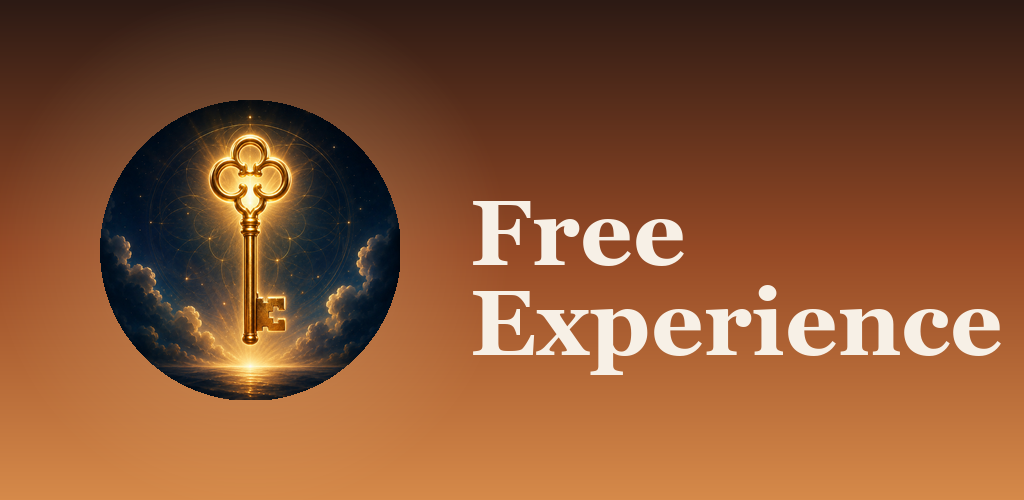
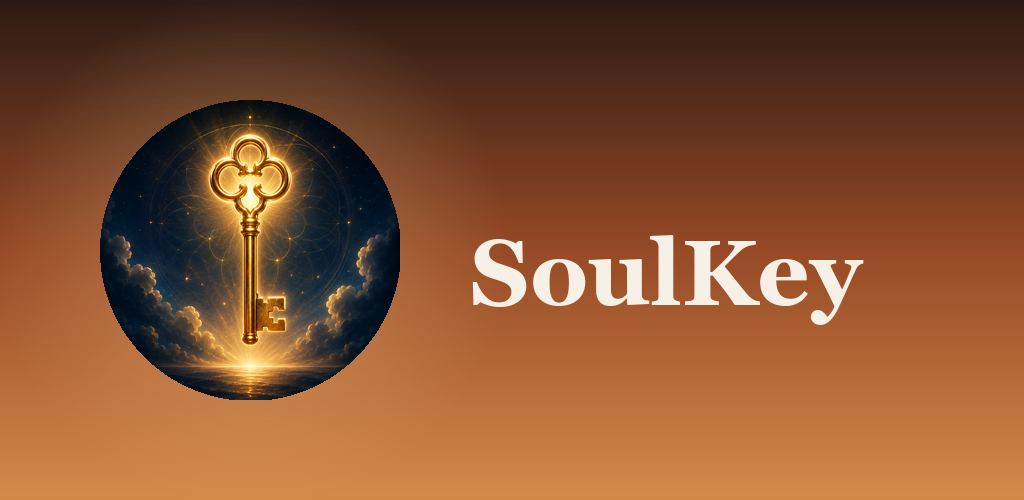
fix(play): listing de Play a SoulKey (titulo, descripciones, icono, feature graphic)
El store listing seguia con el nombre "La llaves" y el logo antiguo (loto
"Free Experience") pese al rename a SoulKey en la app y en el codigo.

- scripts/play_assets.py: wordmark del feature graphic a "SoulKey".
- scripts/update_play_listing.py: script puntual que actualiza via la
  Android Publisher API el titulo, descripciones (con los acentos
  corregidos; la version anterior tenia la codificacion rota) e icono/
  feature graphic para los dos idiomas de listing existentes (sk, es-ES).
  Ya ejecutado contra el proyecto real: Play Console refleja SoulKey.

Changed region(s): [[0.4375, 0.39, 1.0, 0.75]]

diff --git a/scripts/update_play_listing.py b/scripts/update_play_listing.py
@@ -1,0 +1,111 @@
+# -*- coding: utf-8 -*-
+"""Actualiza el listing de Play Store: titulo, descripciones (SoulKey) e
+imagenes (icono + feature graphic). Uso puntual, no forma parte del pipeline
+de releases (scripts/publish_play.py se encarga de eso).
+
+Uso:
+  python scripts/update_play_listing.py
+"""
+import os
+
+from google.oauth2 import service_account
+from googleapiclient.discovery import build
+from googleapiclient.http import MediaFileUpload
+
+PACKAGE_NAME = "com.freeexperience.free_experience"
+DEFAULT_KEY_PATH = os.path.expanduser("~/.play-publish-keys/free-experience.json")
+ROOT = os.path.dirname(os.path.dirname(os.path.abspath(__file__)))
+ICON_PATH = os.path.join(ROOT, "assets", "Google", "play", "icon_512.png")
+FEATURE_PATH = os.path.join(ROOT, "assets", "Google", "play", "feature_1024x500.png")
+SCOPES = ["https://www.googleapis.com/auth/androidpublisher"]
+
+SHORT_DESCRIPTION = (
+    "Meditaciones, prácticas, canalizaciones e inspiración para tu día a día."
+)
+
+FULL_DESCRIPTION = (
+    "SoulKey reúne meditaciones, prácticas guiadas, canalizaciones e "
+    "inspiración en un espacio sereno y sin distracciones.\n\n"
+    "Qué encontrarás:\n\n"
+    "Medita: sesiones de meditación para calmar la mente y volver al presente.\n"
+    "Canaliza: canalizaciones con alma, con contenido nuevo cada semana.\n"
+    "Duerme: prácticas para acompañar el descanso.\n"
+    "Inspira: piezas breves para reconectar a lo largo del día.\n\n"
+    "Escucha con la pantalla bloqueada y en segundo plano, y guarda tus piezas "
+    "favoritas para reproducirlas sin conexión. Tu progreso, tus favoritos y "
+    "tus descargas se conservan para que retomes donde lo dejaste, en cualquier "
+    "momento y desde cualquier dispositivo.\n\n"
+    "Aviso de bienestar: las prácticas y meditaciones no sustituyen atención "
+    "médica, psicológica ni profesional. Detén la reproducción si una "
+    "práctica provoca malestar y busca apoyo profesional cuando sea necesario."
+)
+
+
+def main():
+    key_path = os.environ.get("GOOGLE_PLAY_SERVICE_ACCOUNT_JSON", DEFAULT_KEY_PATH)
+    credentials = service_account.Credentials.from_service_account_file(
+        key_path, scopes=SCOPES
+    )
+    service = build("androidpublisher", "v3", credentials=credentials)
+
+    edit = service.edits().insert(packageName=PACKAGE_NAME, body={}).execute()
+    edit_id = edit["id"]
+    print(f"Edit abierto: {edit_id}")
+
+    listings = service.edits().listings().list(
+        packageName=PACKAGE_NAME, editId=edit_id
+    ).execute()
+    languages = [l["language"] for l in listings.get("listings", [])]
+    print(f"Idiomas de listing existentes: {languages}")
+
+    for lang in languages:
+        service.edits().listings().update(
+            packageName=PACKAGE_NAME,
+            editId=edit_id,
+            language=lang,
+            body={
+                "language": lang,
+                "title": "SoulKey",
+                "shortDescription": SHORT_DESCRIPTION,
+                "fullDescription": FULL_DESCRIPTION,
+            },
+        ).execute()
+        print(f"Listing '{lang}' actualizado: titulo=SoulKey, descripciones reescritas")
+
+    for lang in languages:
+        service.edits().images().deleteall(
+            packageName=PACKAGE_NAME,
+            editId=edit_id,
+            language=lang,
+            imageType="icon",
+        ).execute()
+        service.edits().images().upload(
+            packageName=PACKAGE_NAME,
+            editId=edit_id,
+            language=lang,
+            imageType="icon",
+            media_body=MediaFileUpload(ICON_PATH, mimetype="image/png"),
+        ).execute()
+        print(f"Icono subido para '{lang}'")
+
+        service.edits().images().deleteall(
+            packageName=PACKAGE_NAME,
+            editId=edit_id,
+            language=lang,
+            imageType="featureGraphic",
+        ).execute()
+        service.edits().images().upload(
+            packageName=PACKAGE_NAME,
+            editId=edit_id,
+            language=lang,
+            imageType="featureGraphic",
+            media_body=MediaFileUpload(FEATURE_PATH, mimetype="image/png"),
+        ).execute()
+        print(f"Feature graphic subido para '{lang}'")
+
+    result = service.edits().commit(packageName=PACKAGE_NAME, editId=edit_id).execute()
+    print(f"Edit publicado: {result['id']}")
+
+
+if __name__ == "__main__":
+    main()

diff --git a/scripts/play_assets.py b/scripts/play_assets.py
@@ -67,8 +67,7 @@ draw = ImageDraw.Draw(feat)
 title_font = ImageFont.truetype(GEORGIA_B, 92)
 sub_font = ImageFont.truetype(GEORGIA, 34)
 tx = 470
-draw.text((tx, 180), "Free", font=title_font, fill=(247, 240, 230))
-draw.text((tx, 270), "Experience", font=title_font, fill=(247, 240, 230))
+draw.text((tx, 220), "SoulKey", font=title_font, fill=(247, 240, 230))
 feat.save(os.path.join(OUT, "feature_1024x500.png"))
 print("feature_1024x500.png OK")
 